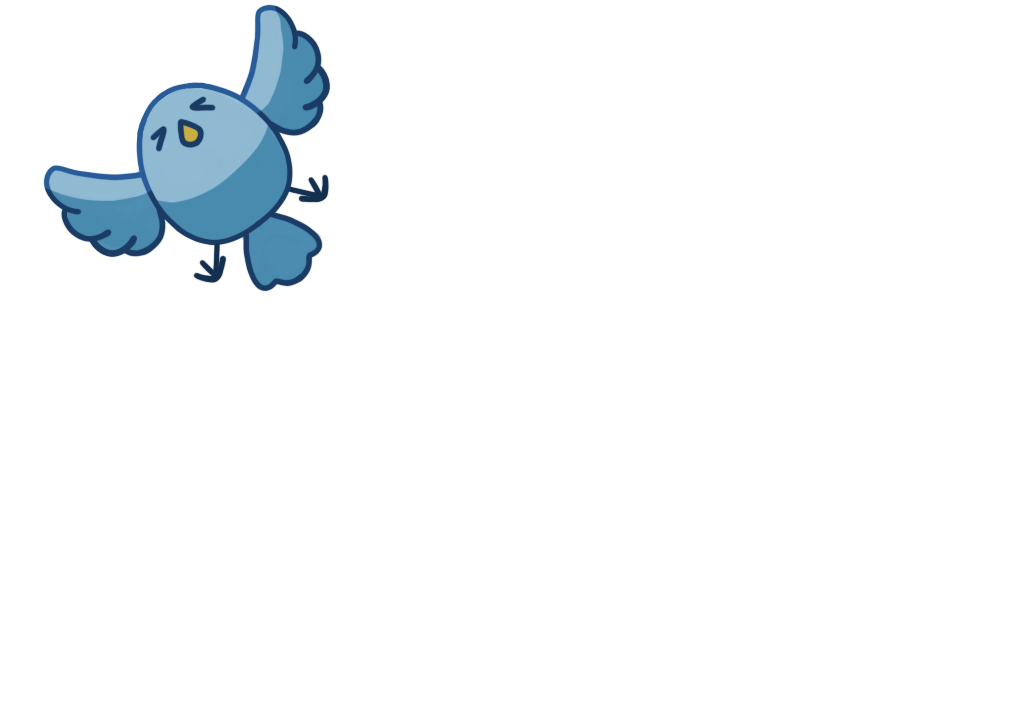
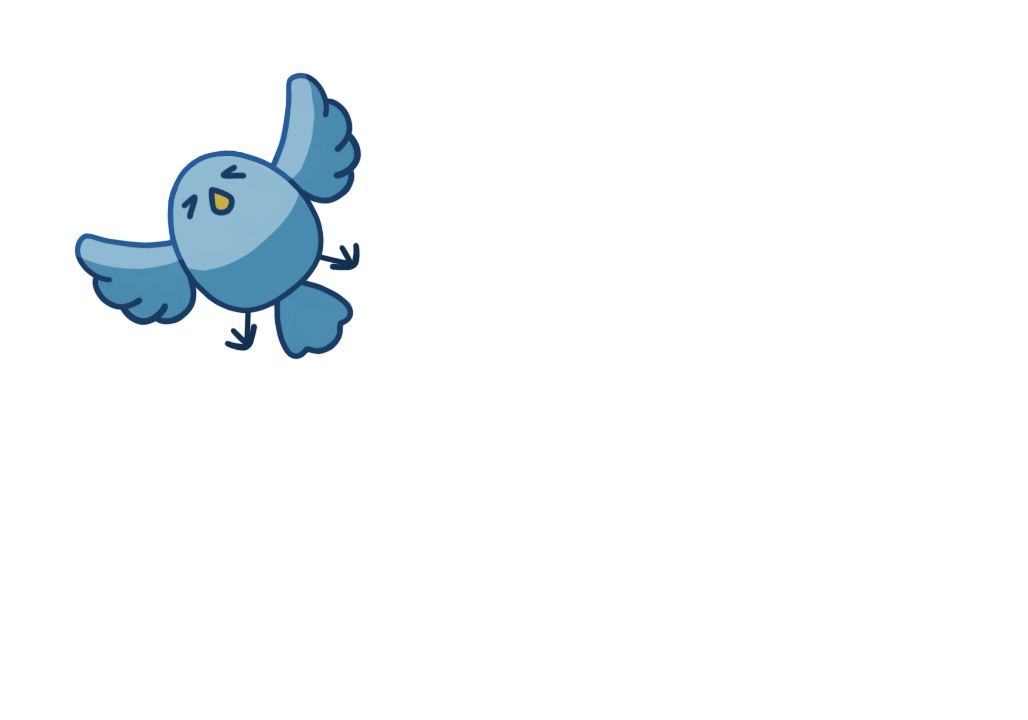
251221

Changed region(s): [[0.0311, 0.0, 0.3735, 0.5194]]

diff --git a/js_fold/socials.js b/js_fold/socials.js
@@ -12,23 +12,32 @@ document.addEventListener("DOMContentLoaded", function() {
         gsap.to(cursor, { x: e.clientX, y: e.clientY, duration: 0.1 });
     });
 
-    // --- 2. 視差動畫 (Parallax) ---
+    // --- 2. 視差動畫修正 (動物跳出 + 縮短時間) ---
     const tl = gsap.timeline({
         scrollTrigger: {
             trigger: "#parallax-container",
             start: "top top",
-            end: "+=4000",
-            scrub: 1.5,
+            // 將 end 從 4000 縮短為 1500，這會讓動畫在更短的滾動距離內完成（感覺變快）
+            end: "+=1500", 
+            scrub: 1,      // 數值越小，跟隨滾輪的反應越即時
             pin: true,
             invalidateOnRefresh: true 
         }
     });
-    tl.to("#layer-bird", { scale: 1.03 }, 0)
-      .to("#layer-bear", { scale: 1.03 }, 0.1)
-      .to("#layer-fox", { scale: 1.03 }, 0.12)
-      .to("#layer-star", { scale: 1.03 }, 0.15)
-      .to("#layer-sky", { scale: 1.1 }, 0)
-      .to("#text-overlay h1", { opacity: 1, scale: 1 }, 0.17);
+
+    // 設定初始位置（讓動物先隱藏在畫面外）
+    gsap.set("#layer-fox", { x: -500, rotation: -10 }); // 從左邊跳出
+    gsap.set("#layer-bear", { x: 500, rotation: 10 });  // 從右邊跳出
+    gsap.set("#layer-bird", { y: 300 });               // 鳥(草圖層)從下面上來
+
+    tl.to("#layer-sky", { scale: 1.2, duration: 2 }, 0)
+    .to("#layer-star", { opacity: 0.5, y: -100, duration: 2 }, 0)
+    // 動物跳入動畫
+    .to("#layer-fox", { x: 0, rotation: 0, duration: 2, ease: "back.out(1.7)" }, 0.2)
+    .to("#layer-bear", { x: 0, rotation: 0, duration: 2, ease: "back.out(1.7)" }, 0.3)
+    .to("#layer-bird", { y: 0, duration: 2, ease: "power2.out" }, 0.4)
+    // 文字出現
+    .to("#text-overlay h1", { opacity: 1, scale: 1, duration: 1.5 }, 0.8);
 
     // --- 3. Header 滑入 ---
     gsap.to("header", {

diff --git a/index.html b/index.html
@@ -50,7 +50,7 @@
   <img src="imgs/pic/fox.png" class="layer" id="layer-fox" alt="tree">
   <img src="imgs/pic/bear.png" class="layer" id="layer-bear" alt="bear">
   
-  <img src="imgs/pic/bird.png" class="layer" id="layer-grass" alt="bird">
+  <img src="imgs/pic/bird.png" class="layer" id="layer-bird" alt="bird">
   
   <div id="text-overlay">
     <h1>Yun's website</h1>

diff --git a/db.js b/db.js
@@ -1,5 +1,6 @@
 // db.js
 var DB = require("nedb-promises");
+var path = require("path");
 
 // 建立並匯出這五個資料庫物件
 module.exports = {
